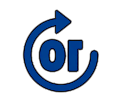
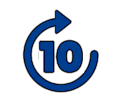
Miniplayer(feat): ícones e animações novas para reprodução

Changed region(s): [[0.3, 0.36, 0.7, 0.75], [0.675, 0.72, 0.7, 0.75], [0.3, 0.72, 0.325, 0.75]]

diff --git a/main.py b/main.py
@@ -30,6 +30,7 @@ pygame.mixer.init()
 Pasta = tk.PhotoImage(file = str(caminho_recurso("layers/pasta.png")))
 
 Retornar = tk.PhotoImage(file = str(caminho_recurso("layers/Retornar.png")))
+Tocar = tk.PhotoImage(file = (str(caminho_recurso("layers/Tocar.png"))))
 Pausar = tk.PhotoImage(file = str(caminho_recurso("layers/Pausar.png")))
 Avançar = tk.PhotoImage(file = str(caminho_recurso("layers/Avançar.png")))
 Drag_and_Drop = tk.PhotoImage(file = str(caminho_recurso("layers/adicionar_arquivo.png")))
@@ -209,6 +210,7 @@ def selecionado(evento):
         tempo_iniciada = 1
         pygame.mixer.music.play()
         tocando = True
+        botão_play.config(image = Pausar)
 
         audio = MP3(caminho)
         tempo_total = int(audio.info.length)
@@ -317,9 +319,11 @@ def play():
         if tocando:
             pygame.mixer.music.pause()
             tocando = False
+            botão_play.config(image = Tocar)
         else:
             pygame.mixer.music.unpause()
             tocando = True
+            botão_play.config(image = Pausar)
 
 def avançar():
 
@@ -334,7 +338,7 @@ def avançar():
     pygame.mixer.music.play(start = tempo_iniciada)
 
 botão_menos10 = tk.Button(caixa_botões, bg = "gray11", activebackground = "gray11", bd = 0, relief = "flat", image = Retornar, command = retornar)
-botão_play = tk.Button(caixa_botões, bg = "gray11", activebackground = "gray11", bd = 0, relief = "flat", image = Pausar, command = play)
+botão_play = tk.Button(caixa_botões, bg = "gray11", activebackground = "gray11", bd = 0, relief = "flat", image = Tocar, command = play)
 botão_mais10 = tk.Button(caixa_botões, bg = "gray11", activebackground = "gray11", bd = 0, relief = "flat", image = Avançar, command = avançar)
 
 botão_menos10.pack(side = "left", padx = 5)

diff --git a/readme.md b/readme.md
@@ -12,9 +12,13 @@ Com uma interface gráfica discreta e funcionalidades essenciais, o Miniplayer b
 
 ### 📸 Capturas de tela
 
-<img src="assets/image 1.png" width="350">
-<img src="assets/image 2.png" width="350">
-<img src="assets/image 3.png" width="300">
+<table>
+  <tr>
+    <td><img src="assets/image1.png" width="350"></td>
+    <td><img src="assets/image2.png" width="350"></td>
+    <td><img src="assets/image3.png" width="300"></td>
+  </tr>
+</table>
 
 ## ⚙ Funcionalidades
 
